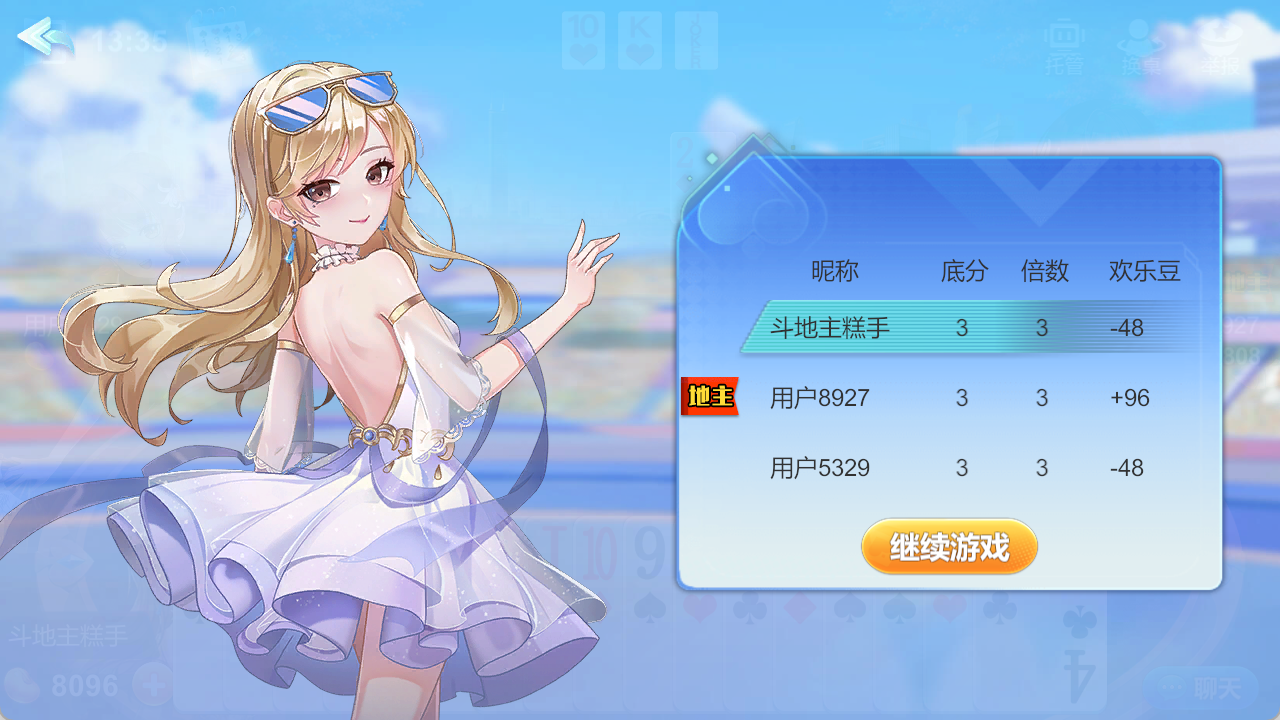
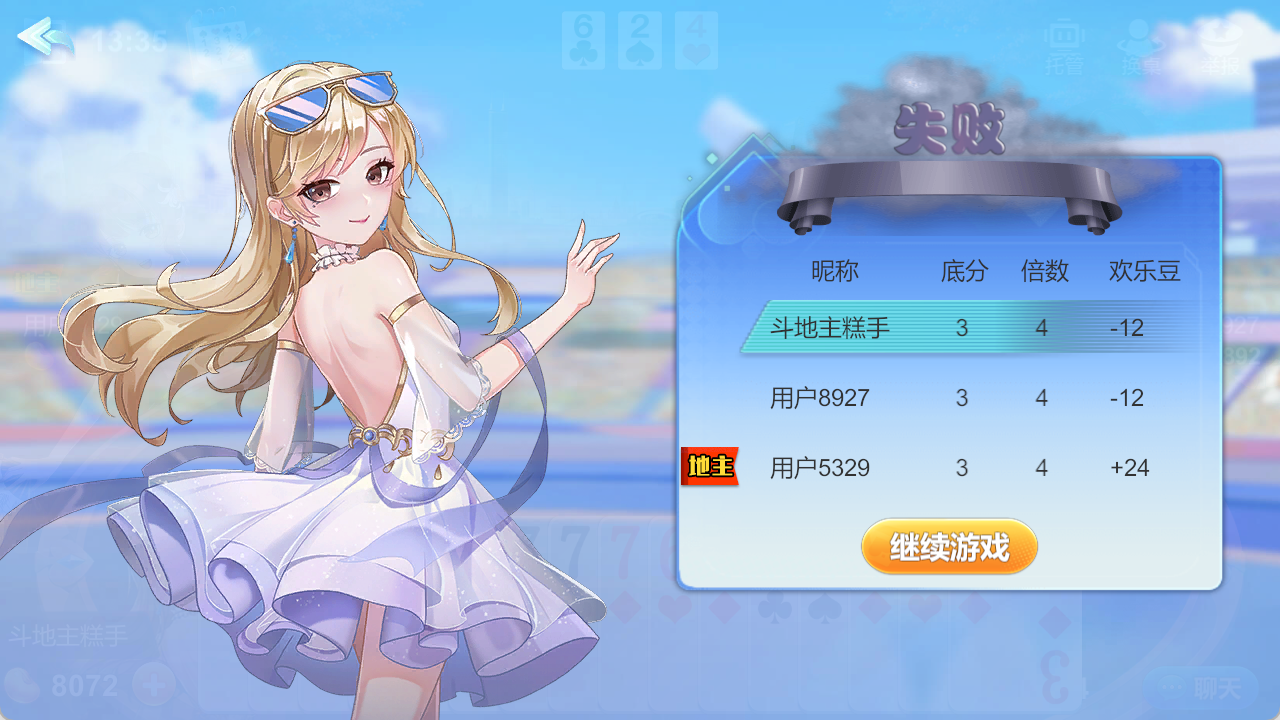
SQL文件

diff --git a/LandlordClient/Assets/Scripts/UI/Game/GameView.cs b/LandlordClient/Assets/Scripts/UI/Game/GameView.cs
@@ -429,7 +429,7 @@ public class GameView : UIBase {
             AudioService.Instance.PlayOperateAudio(isLeft ? _leftPosIndex : _rightPosIndex,
                 Constant.Alarm + remainingNum);
         } else {
-            // 播放音频
+            // todo 播放音频，isCover的判定有问题导致无法播放“不要”语音
             bool isCover = response.IsCover && response.MonsterPos != (isLeft ? _leftPosIndex : _rightPosIndex);
             var direction = isLeft ? PlayerDirection.Left : PlayerDirection.Right;
             AudioService.Instance.PlayCardAudio(response.LastPos, response.PendCards.ToList(), isCover, direction);

diff --git a/LandlordClient/Assets/Scripts/UI/Game/Panel/ResultPanel.cs b/LandlordClient/Assets/Scripts/UI/Game/Panel/ResultPanel.cs
@@ -85,6 +85,12 @@ public class ResultPanel : UIBase {
             row1Money.text = "+" + self.Money;
         }
         
+        if (self.IsWin) {
+            winIcon.gameObject.SetActive(true);
+        } else {
+            lostIcon.gameObject.SetActive(true);
+        }
+
         // 另外玩家的数据
         if (list[0].IsLord) {
             row2LandIcon.gameObject.SetActive(true);
